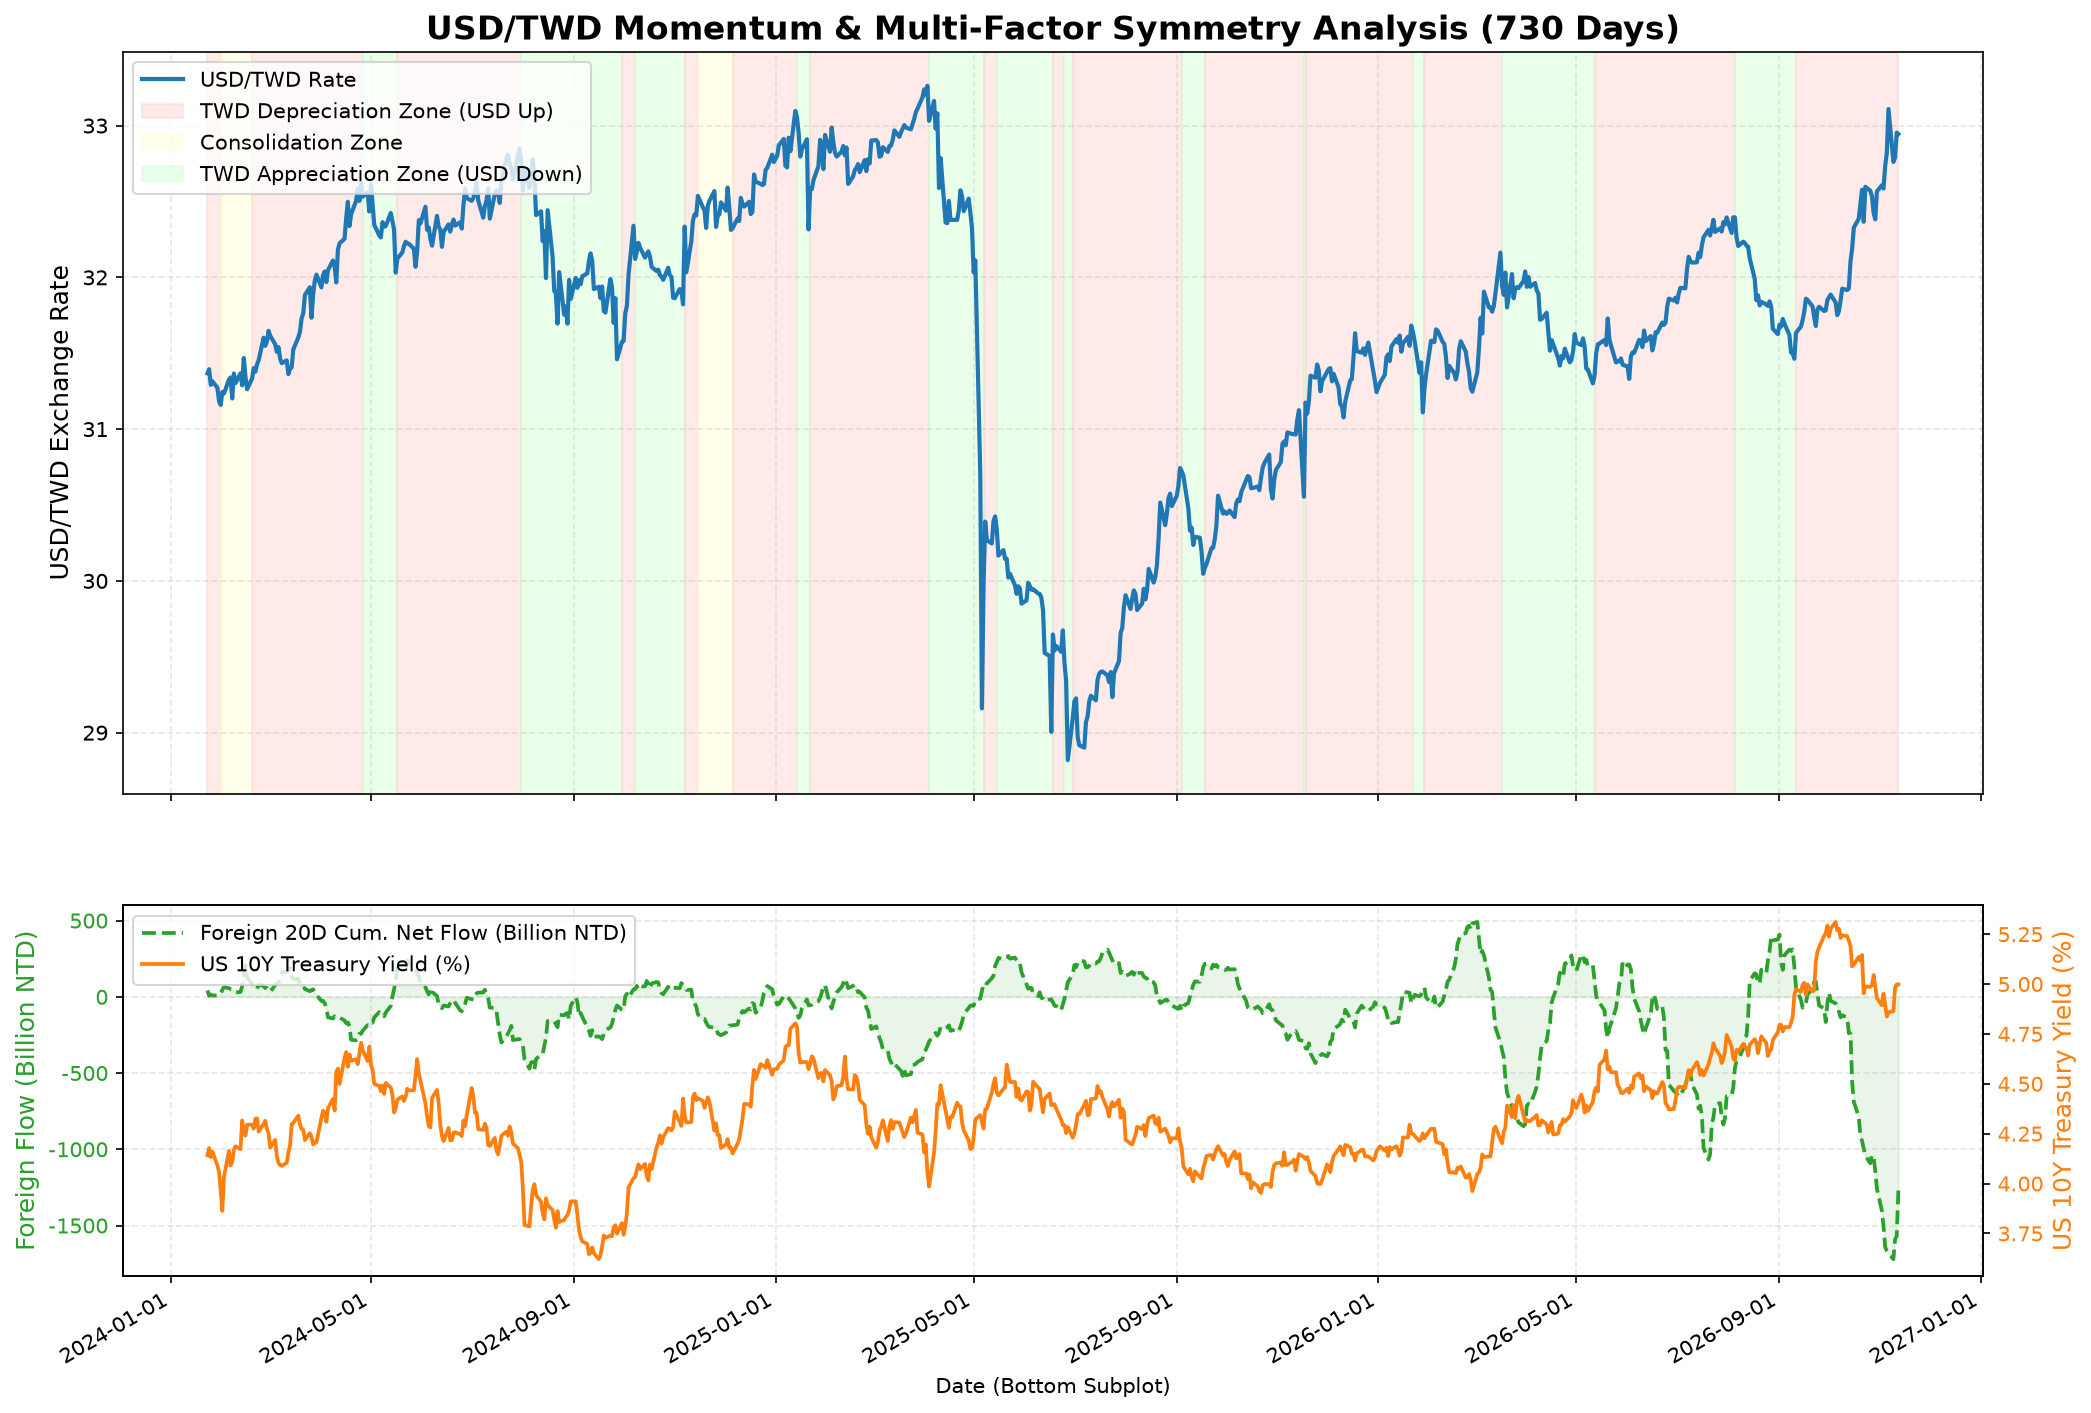
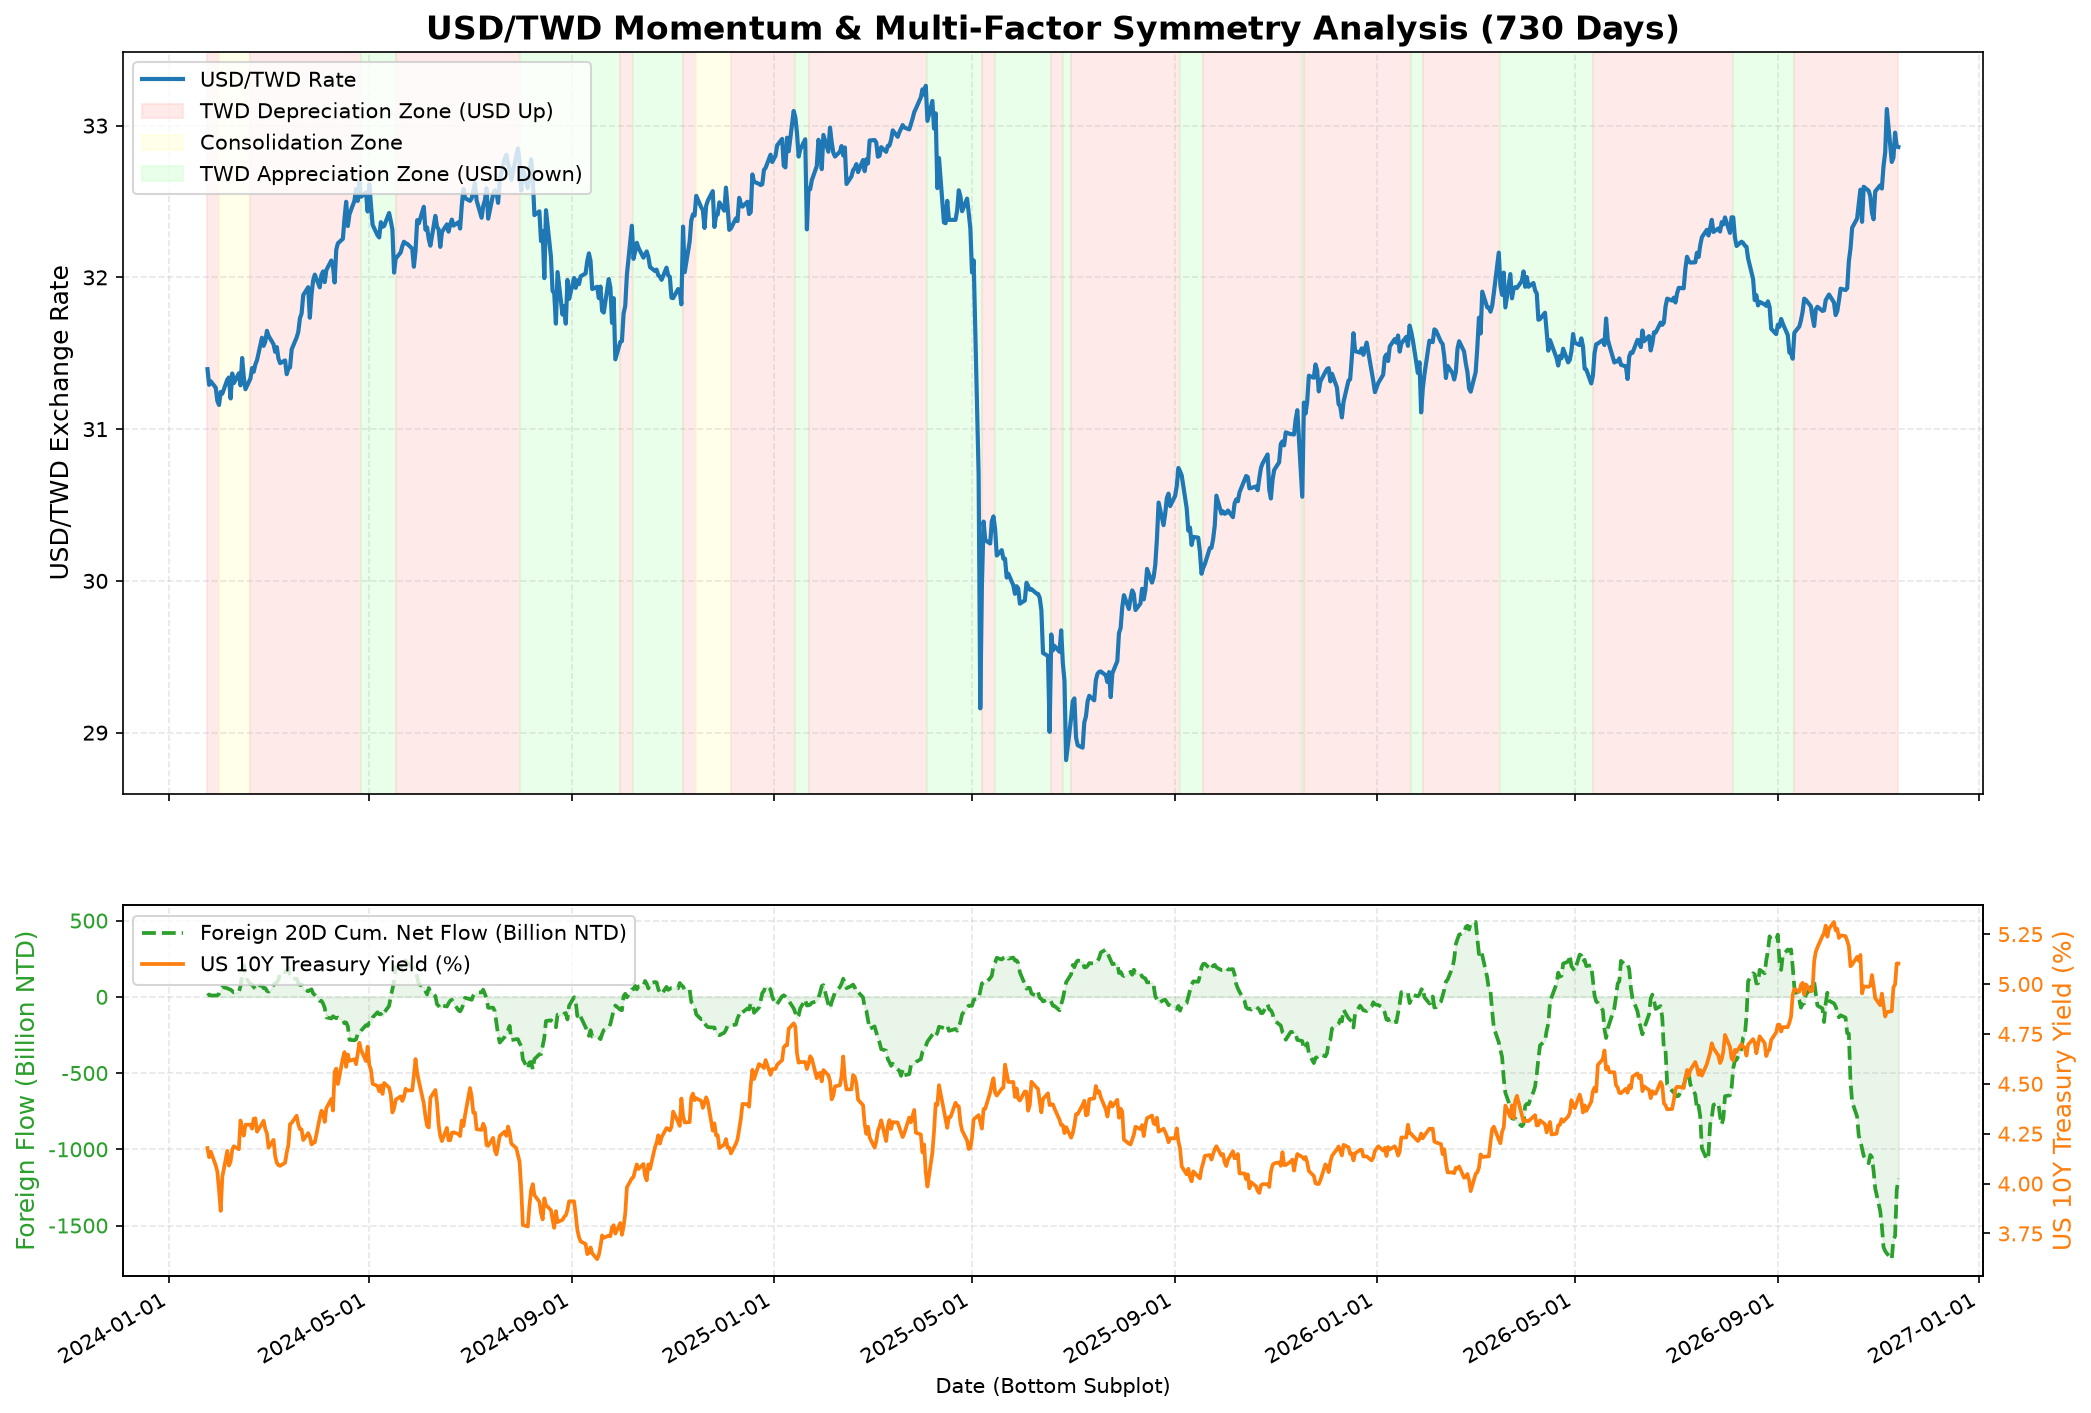
Auto-update USD/TWD momentum report (2026-11-13)

diff --git a/usdtwd.html b/usdtwd.html
@@ -57,7 +57,7 @@
                     <i class="fa-solid fa-money-bill-transfer text-amber-500"></i> USD/TWD 美元兌新台幣動能與多維度對稱分析報告
                 </h1>
                 <p class="text-sm text-gray-400 mt-1">
-                    標的：USD/TWD 匯率 ｜ 模型：雙速量價效率與波動對稱模型 ｜ 更新日期：2026-11-12
+                    標的：USD/TWD 匯率 ｜ 模型：雙速量價效率與波動對稱模型 ｜ 更新日期：2026-11-13
                 </p>
             </div>
             <div class="flex items-center gap-3">
@@ -116,22 +116,22 @@
 ════════════════════════════════════════════════════════════════════════════════
 
 【1. 跨市場與籌碼因子即時監控】
-  * 外資近 5 日累積淨買賣超: -216.81 十億元新台幣
-  * 外資近 20 日累積淨買賣超: -1268.30 十億元新台幣
-  * 美元指數 DXY: 102.91 (近5日變動: +0.61)
-  * 美元兌韓元 KRW: 1332.68 (近5日變動: -23.66)
-  * 美國 10 年期公債殖利率: 4.998% (近5日變動: +0.139%)
+  * 外資近 5 日累積淨買賣超: -96.79 十億元新台幣
+  * 外資近 20 日累積淨買賣超: -1193.32 十億元新台幣
+  * 美元指數 DXY: 103.22 (近5日變動: +1.57)
+  * 美元兌韓元 KRW: 1336.65 (近5日變動: -26.05)
+  * 美國 10 年期公債殖利率: 5.103% (近5日變動: +0.239%)
 --------------------------------------------------------------------------------
 【2. 歷史波段對稱統計 (台幣貶值波段 (美元兌台幣上漲))】
-  * 歷史波段數: 35 次
-  * 平均波動幅度: 3.01% (中位數: 2.39%)
+  * 歷史波段數: 36 次
+  * 平均波動幅度: 2.99% (中位數: 2.39%)
   * 平均持續天數: 36.1 天
-  * 平均波段外資流入: -245.60 十億元
+  * 平均波段外資流入: -237.97 十億元
 --------------------------------------------------------------------------------
 【2. 歷史波段對稱統計 (台幣升值波段 (美元兌台幣下跌))】
   * 歷史波段數: 29 次
-  * 平均波動幅度: 3.53% (中位數: 2.23%)
-  * 平均持續天數: 39.4 天
+  * 平均波動幅度: 3.51% (中位數: 2.23%)
+  * 平均持續天數: 38.9 天
   * 平均波段外資流入: +58.25 十億元
 --------------------------------------------------------------------------------
 【3. 當前 USD/TWD 波段評估與等幅對稱投影】
@@ -139,19 +139,19 @@
   * 波段起始日期: 2026-09-11 (起始匯率: 31.635)
   * 波段最高點 (Peak): 33.109
   * 波段最低點 (Trough): 31.635
-  * 當前最新匯率 (2026-11-12): 32.944
+  * 當前最新匯率 (2026-11-13): 32.859
   * 本波段累計變動: 4.66% (共 +1.474 元)
-  * 目前已持續交易日: 44 天
-  * 本波段外資累積淨流入: -2018.57 十億元
+  * 目前已持續交易日: 45 天
+  * 本波段外資累積淨流入: -1989.74 十億元
 
   [短線動能預警 (0.6% 領先燈號)]
   * 短線波段狀態: 台幣短線轉強 (匯率自高點回落)
   * 短線轉折基準: 2026-11-06 (匯率基準價 33.109)
-  * 短線累計幅度: -0.50% (4 天)
+  * 短線累計幅度: -0.76% (5 天)
 
   &gt;&gt;&gt; 【台幣貶值波段對稱投影預估 (以波段最低點計算)】 &lt;&lt;&lt;
   * 投影基準點 (本波段最低谷): 31.635
-  1. 溫和型貶值滿足點 (歷史平均 +3.01%): 【32.587】 (已超越)
+  1. 溫和型貶值滿足點 (歷史平均 +2.99%): 【32.580】 (已超越)
   2. 標準型貶值滿足點 (歷史中位數 +2.39%): 【32.391】 (已超越)
 
   💡 操作與避險決策建議：
